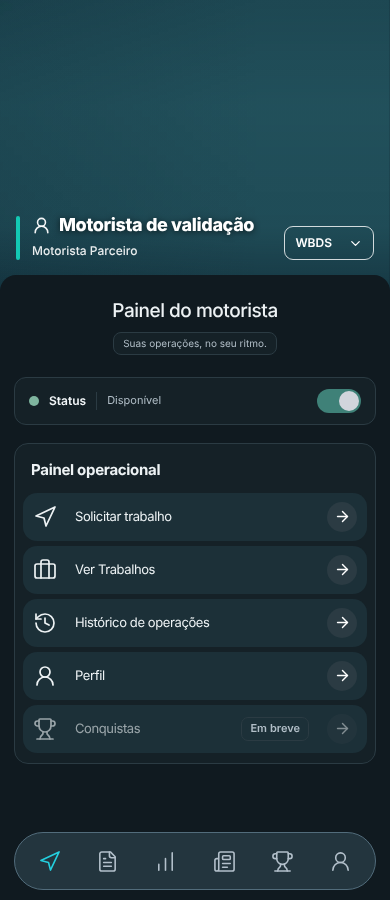
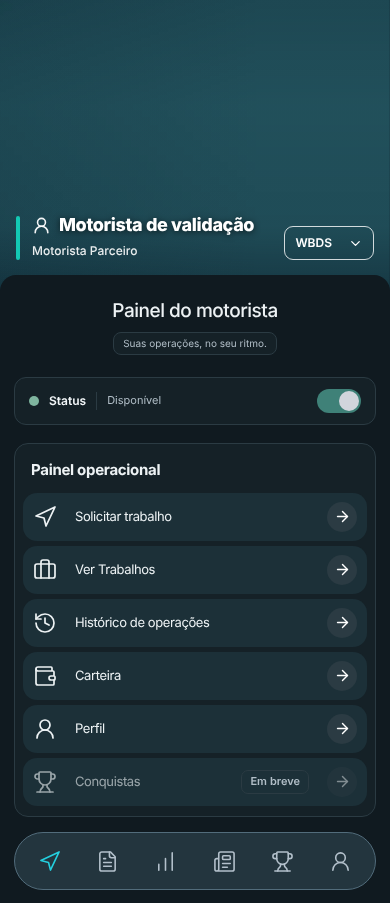
v80: Carteira — opção no Painel operacional, página Trabalhos renomeada para Carteira e removida do menu flutuante — Android 1.0.586, Web 2.3.243, Windows 0.2.12
Claude-Session: https://claude.ai/code/session_01ASk6AVRSjq21hzr82RT83a

diff --git a/src/pages/driver/Rewards.tsx b/src/pages/driver/Rewards.tsx
@@ -14,7 +14,7 @@ import "../../components/partnerships/Partnerships.css";
 
 type Tab = "active" | "receipts" | "history" | "info";
 
-/** Trabalhos do motorista (menu do painel): trabalhos ativos com prazo e ganhos, recebimentos, histórico de conclusões e resultados, e como funciona. */
+/** Carteira do motorista (opção do Painel operacional): trabalhos ativos com prazo e ganhos, recebimentos, histórico de conclusões e resultados, e como funciona. */
 export default function DriverRewards() {
   const { currentUser } = useSessionStore();
   const navigate = useNavigate();
@@ -32,12 +32,12 @@ export default function DriverRewards() {
   if (paymentId) return shell("Recebimento", "Pagamento e comprovante.", <ReceiptDetail payment={payments.find(item => item.id === paymentId)} pix={pix} onBack={() => setPaymentId("")} />);
   if (open) return shell(offerPhase(open) === "pending" ? "Oferta" : "Trabalho", "Prazo, ganhos e pagamento.", <OfferDetail offer={open} now={now} busy={busy} onBack={() => setOpenId("")} onRespond={decision => void respond(open, decision)} />);
   const pending = offers.filter(offer => offerPhase(offer) === "pending" && offer.endMs >= now).length, toConfirm = payments.filter(item => item.status === "paid").length;
-  const tabs = <Tabs<Tab> label="Seções de trabalhos" value={tab} onChange={setTab} items={[{ id: "active", label: "Ativos", count: pending, warn: true }, { id: "receipts", label: "Recebimentos", count: toConfirm, warn: true }, { id: "history", label: "Histórico" }, { id: "info", label: "Info" }]} />;
+  const tabs = <Tabs<Tab> label="Seções da carteira" value={tab} onChange={setTab} items={[{ id: "active", label: "Ativos", count: pending, warn: true }, { id: "receipts", label: "Recebimentos", count: toConfirm, warn: true }, { id: "history", label: "Histórico" }, { id: "info", label: "Info" }]} />;
   const body = tab === "receipts" ? <ReceiptsTab payments={payments} pix={pix} ready={paymentsReady} onOpen={setPaymentId} />
     : tab === "history" ? <HistoryTab offers={offers} payments={payments} ready={ready} onOpen={setOpenId} />
     : tab === "info" ? <InfoTab offers={offers} payments={payments} />
     : <ActiveTab offers={offers} ready={ready} now={now} onOpen={setOpenId} />;
-  return shell("Trabalhos", tab === "receipts" ? "Recebimentos e chave Pix." : tab === "history" ? "Conclusões e resultados." : tab === "info" ? "Como funciona." : "Seus trabalhos e ofertas.", <>
+  return shell("Carteira", tab === "receipts" ? "Recebimentos e chave Pix." : tab === "history" ? "Conclusões e resultados." : tab === "info" ? "Como funciona." : "Seus trabalhos e ofertas.", <>
     <BackLink label="Painel" onClick={() => navigate("/driver/profile")} />
     {tabs}
     {error ? <p className="b2p-alert" role="alert">Não foi possível atualizar agora.</p> : null}

diff --git a/src/components/driver/DriverIdlePanel.tsx b/src/components/driver/DriverIdlePanel.tsx
@@ -17,13 +17,15 @@ type IdleMenuItem = { id: string; label: string; icon: LucideIcon; hint?: string
  * Painel do motorista sem operação: status no topo e uma lista de opções (mesmo desenho da Central de gestão).
  * "Ver Trabalhos" e "Histórico de operações" abrem a própria tela dentro do painel, com botão de voltar.
  */
-export function DriverIdlePanel({ online, suspended, onAvailabilityChange, request, onProfile, workJobIds = [], works, history, defaultView = "menu", children }: {
+export function DriverIdlePanel({ online, suspended, onAvailabilityChange, request, onProfile, onWallet, workJobIds = [], works, history, defaultView = "menu", children }: {
   online: boolean;
   suspended: boolean;
   onAvailabilityChange: (online: boolean) => void;
   /** Estado do pedido de trabalho; a opção "Solicitar trabalho" envia o pedido (com um pedido em andamento, abre "Ver Trabalhos" para acompanhar/cancelar). */
   request: { pending: boolean; busy: boolean; success: boolean; onRequest: () => void };
   onProfile: () => void;
+  /** Abre a página Carteira (ofertas, recebimentos e histórico de ganhos). */
+  onWallet: () => void;
   /** Trabalhos recebidos (ids) — conta quantos têm oferta de pagamento nova. */
   workJobIds?: string[];
   works: React.ReactNode;
@@ -44,6 +46,7 @@ export function DriverIdlePanel({ online, suspended, onAvailabilityChange, reque
       onSelect: () => (request.pending ? setView("works") : request.onRequest()) },
     { id: "works", label: "Ver Trabalhos", icon: Briefcase, badge: worksNew > 0 ? `${worksNew} ${worksNew === 1 ? "nova" : "novas"}` : worksCount || undefined, onSelect: () => setView("works") },
     { id: "history", label: "Histórico de operações", icon: History, onSelect: () => setView("history") },
+    { id: "wallet", label: "Carteira", icon: Wallet, onSelect: onWallet },
     { id: "profile", label: "Perfil", icon: UserRound, onSelect: onProfile },
     { id: "achievements", label: "Conquistas", icon: Trophy, soon: true, disabled: true },
   ];

diff --git a/src/components/driver/DriverRewardsEntry.tsx b/src/components/driver/DriverRewardsEntry.tsx
@@ -5,7 +5,7 @@ import { useSessionStore } from "../../context/AppContext";
 import { useDriverPayments, useDriverRewards } from "../../hooks/useRewards";
 import { formatMoney } from "../../lib/partnerships";
 
-/** Entrada dos Trabalhos no painel do motorista: só aparece quando há oferta nova ou campanha aceita. */
+/** Entrada da Carteira no painel do motorista: só aparece quando há oferta nova ou campanha aceita. */
 export function DriverRewardsEntry() {
   const { currentUser } = useSessionStore();
   const { offers } = useDriverRewards(currentUser?.id), { payments } = useDriverPayments(currentUser?.id), toConfirm = payments.filter(item => item.status === "paid").length;
@@ -14,7 +14,7 @@ export function DriverRewardsEntry() {
   const total = accepted.reduce((sum, offer) => sum + offer.totalCents, 0);
   return <Link to="/driver/recompensas" className="order-2 mb-3 flex items-center gap-3 rounded-2xl border border-[var(--nvu-line)] bg-[var(--nvu-surface,#fff)] px-4 py-3 text-left no-underline" data-testid="driver-rewards-entry">
     <Wallet size={22} aria-hidden="true" />
-    <span className="flex-1 min-w-0"><strong className="block text-[14px]">Trabalhos</strong><small className="block text-[12px] opacity-70">{toConfirm ? `${toConfirm} ${toConfirm === 1 ? "pagamento" : "pagamentos"} para confirmar` : pending ? `${pending} ${pending === 1 ? "oferta nova" : "ofertas novas"} para responder` : `Você já ganhou ${formatMoney(total)}`}</small></span>
+    <span className="flex-1 min-w-0"><strong className="block text-[14px]">Carteira</strong><small className="block text-[12px] opacity-70">{toConfirm ? `${toConfirm} ${toConfirm === 1 ? "pagamento" : "pagamentos"} para confirmar` : pending ? `${pending} ${pending === 1 ? "oferta nova" : "ofertas novas"} para responder` : `Você já ganhou ${formatMoney(total)}`}</small></span>
     <ChevronRight size={18} aria-hidden="true" />
   </Link>;
 }

diff --git a/scripts/fixtures/driver-idle-panel-492.tsx b/scripts/fixtures/driver-idle-panel-492.tsx
@@ -38,7 +38,7 @@ function App() {
         <DriverIdlePanel key={`panel:${generation}`} defaultView={config.view || "menu"} online={config.online !== false} suspended={Boolean(config.suspended)}
           onAvailabilityChange={online => { calls.push({ action: "availability", online }); setConfig((v: any) => ({ ...v, online })); }}
           request={{ pending: Boolean(config.pending), busy: Boolean(config.busy), success: Boolean(config.success), onRequest: () => { calls.push({ action: "request" }); setConfig((v: any) => ({ ...v, pending: true })); } }}
-          onProfile={() => calls.push({ action: "profile" })} workJobIds={config.manual ? [manual.id] : []}
+          onProfile={() => calls.push({ action: "profile" })} onWallet={() => calls.push({ action: "wallet" })} workJobIds={config.manual ? [manual.id] : []}
           works={<>
           <DriverWorkRequest variant="panel" online={config.online !== false} suspended={Boolean(config.suspended)} busy={Boolean(config.busy)}
             pending={Boolean(config.pending)} requestedAt="12:00" success={Boolean(config.success)}

diff --git a/src/components/driver/RewardCompletionPrompt.tsx b/src/components/driver/RewardCompletionPrompt.tsx
@@ -30,7 +30,7 @@ export function RewardCompletionPrompt({ driverId }: { driverId: string | undefi
   const lost = target.expired;
   return createPortal(<div className="nvu-pss-backdrop" role="presentation" onClick={() => !busy && close()}>
     <section className="nvu-pss" role="dialog" aria-modal="true" aria-labelledby="nvu-rcp-title" onClick={event => event.stopPropagation()} data-testid="reward-completion-prompt">
-      <header><span className="nvu-pss-badge"><Wallet size={14} aria-hidden="true" /> Trabalhos</span><button type="button" aria-label="Fechar" disabled={busy} onClick={close}><X size={18} aria-hidden="true" /></button></header>
+      <header><span className="nvu-pss-badge"><Wallet size={14} aria-hidden="true" /> Carteira</span><button type="button" aria-label="Fechar" disabled={busy} onClick={close}><X size={18} aria-hidden="true" /></button></header>
       <h2 id="nvu-rcp-title">{lost ? "Prazo encerrado" : "Operação concluída"}</h2>
       <p className="nvu-pss-partner">{target.contractName || target.name} · {target.companyName}</p>
       {lost

diff --git a/src/pages/driver/Dashboard.tsx b/src/pages/driver/Dashboard.tsx
@@ -730,7 +730,7 @@ function DashboardComponent({
     { id: "/driver/profile", label: "Meu Perfil", icon: UserIcon },
     { id: "/driver/history", label: "Histórico de Viagens", icon: History },
     { id: "/driver/reports", label: "Relatórios", icon: Activity },
-    { id: "/driver/recompensas", label: "Trabalhos", icon: Wallet },
+    { id: "/driver/recompensas", label: "Carteira", icon: Wallet },
   ];
 
   const activePageDetails =
@@ -1004,7 +1004,7 @@ function DashboardComponent({
         online={Boolean(currentUser?.isOnline)} suspended={operationalSuspension.active}
         onAvailabilityChange={updateUserOnlineStatus}
         request={{ pending: Boolean(myDemand), busy: isSubmittingDemand, success: demandSuccess, onRequest: () => void handleRequestDemand() }}
-        onProfile={() => navigate("/driver/profile")}
+        onProfile={() => navigate("/driver/profile")} onWallet={() => navigate("/driver/recompensas")}
         workJobIds={pendingDriverJobs.map(job => job.id)}
         works={<>
           {solicitarTrabalhoCard}

diff --git a/src/pages/driver/RewardOfferDetail.tsx b/src/pages/driver/RewardOfferDetail.tsx
@@ -12,7 +12,7 @@ export function OfferDetail({ offer, now, busy, onBack, onRespond }: { offer: Re
   const sim = Number(offer.simCents) || 0, phase = offerPhase(offer), accepted = offer.status === "accepted", goal = goalOf(offer), days = offer.deadlineDays, left = timeLeftText(offer.deadlineMs, now);
   const payDay = offer.payDay === null ? "" : ` (toda ${WEEKDAYS[offer.payDay].toLowerCase()})`;
   return <>
-    <BackLink label="Trabalhos" onClick={onBack} />
+    <BackLink label="Carteira" onClick={onBack} />
     <section className="nvu-central-section b2p-sec"><div className="b2p-form">
       <div className="b2p-op-row"><span className="nvu-central-avatar b2p-logo" style={{ display: "inline-grid", placeItems: "center", width: 44, height: 44 }}><Trophy size={22} aria-hidden="true" /></span><div><b>{offer.name}</b><small>{offer.companyName} · {termText(offer)}</small></div></div>
       <div className="b2p-settle">

diff --git a/src/components/workspaceMenuItems.ts b/src/components/workspaceMenuItems.ts
@@ -1,4 +1,4 @@
-import { BookOpen, LayoutDashboard, Truck, Wallet } from "lucide-react";
+import { BookOpen, LayoutDashboard, Truck } from "lucide-react";
 import type { GlobalMenuGroup, GlobalMenuItem } from "./GlobalMenu";
 
 // Routes also present in WorkspaceDock remain available through the dock.
@@ -9,6 +9,5 @@ export const COMPANY_MENU_GROUPS: GlobalMenuGroup[] = [{ title: "", items: [
 
 export const DRIVER_MENU_ITEMS: GlobalMenuItem[] = [
   { label: "Painel Operacional", icon: LayoutDashboard, path: "/driver", exact: true },
-  { label: "Trabalhos", icon: Wallet, path: "/driver/recompensas" },
   { label: "Manual", icon: BookOpen, path: "/driver/manual" },
 ];

diff --git a/capacitor.config.ts b/capacitor.config.ts
@@ -15,7 +15,7 @@ const selfHostedOtaEnabled =
   && Boolean(selfHostedOtaManifestUrl)
   && Boolean(selfHostedOtaPublicKey);
 const nativeChannel = String(
-  process.env.NVU_NATIVE_CHANNEL || "production-585",
+  process.env.NVU_NATIVE_CHANNEL || "production-586",
 ).trim();
 
 /**

diff --git a/LEIA-ME-1.0.586.md b/LEIA-ME-1.0.586.md
@@ -1,6 +1,12 @@
-# NVU PRO 1.0.585 (Android) / Web 2.3.242 / Windows 0.2.11
+# NVU PRO 1.0.586 (Android) / Web 2.3.243 / Windows 0.2.12
 
-Base atual do projeto (branch `dist-build`). **Uma única base**: Web (`src/`), Android (`android/`, `versionCode` 585 — instala como atualização da 584/583/582/581/580/579/578/577/576/575/574/573/572/571/570/569/568/567/566/565/564/563/562/561/560/559/558/557/556/555/554/553/552/551/550, sem limpar dados), Windows (`desktop/windows/`, 0.2.9, carrega o mesmo web) e servidor (`functions/`, `firestore.rules`, `storage.rules`).
+Base atual do projeto (branch `dist-build`). **Uma única base**: Web (`src/`), Android (`android/`, `versionCode` 586 — instala como atualização da 585/584/583/582/581/580/579/578/577/576/575/574/573/572/571/570/569/568/567/566/565/564/563/562/561/560/559/558/557/556/555/554/553/552/551/550, sem limpar dados), Windows (`desktop/windows/`, 0.2.9, carrega o mesmo web) e servidor (`functions/`, `firestore.rules`, `storage.rules`).
+
+## 1.0.586 — Carteira
+- **Nova opção “Carteira” no Painel operacional** (entre “Histórico de operações” e “Perfil”): abre a página que antes se chamava “Trabalhos” (ofertas, recebimentos, histórico de ganhos e informações).
+- **A página passou a se chamar “Carteira”** (título, link de voltar nos detalhes da oferta, janela de conclusão/Pix e atalho do painel). O botão “Trabalhos” **saiu do menu flutuante** do motorista.
+- “Ver Trabalhos” (fila de trabalhos recebidos) continua como estava.
+- Sem mudança no servidor (nada a publicar).
 
 ## 1.0.585 — Painel do motorista: lista de opções
 - **Sem o card “Empresa vinculada”.** O painel mostra o **Status** e, logo abaixo, uma **lista de opções no mesmo desenho da Central de gestão**: **1. Solicitar trabalho** (envia o pedido; com pedido em andamento abre “Ver Trabalhos” para acompanhar/cancelar), **2. Ver Trabalhos**, **3. Histórico de operações**, **4. Perfil** (abre a página de perfil) e **5. Conquistas** (“Em breve”).

diff --git a/desktop/windows/README.md b/desktop/windows/README.md
@@ -1,4 +1,4 @@
-# NVU PRO Windows 0.2.11
+# NVU PRO Windows 0.2.12
 
 Aplicativo Windows (Electron) e plugin de telemetria SCS (ETS2/ATS) do mesmo projeto Web/Android. Este documento é técnico; o guia para o usuário final é `GUIA-ATUALIZAR-NVU-E-PREPARAR-ETS2-ATS.md`.
 
@@ -8,7 +8,7 @@ Aplicativo Windows (Electron) e plugin de telemetria SCS (ETS2/ATS) do mesmo pro
 
 | Arquivo | Para quem |
 |---|---|
-| `NVU-PRO-Setup-0.2.11-x64.exe` | **Principal.** Instala ou atualiza a NVU (por usuário, sem administrador). |
+| `NVU-PRO-Setup-0.2.12-x64.exe` | **Principal.** Instala ou atualiza a NVU (por usuário, sem administrador). |
 | `release-manifest.json`, `SHA256SUMS.txt`, `Verificar-NVU.ps1` | Conferência do arquivo baixado (tamanho, SHA-256, assinatura). |
 | `nvu_scs_telemetry.dll` + `.manifest.json` e `plugin/` (fonte) | Opcional/técnico: plugin e fonte do plugin. |
 | Projeto completo (ZIP) e relatório | Opcional/técnico. |
@@ -29,7 +29,7 @@ npm run windows:verify                # reverifica artifacts/windows (tamanho, S
 npm run windows:portable              # secundário: ZIP sem instalação
 npm run windows:dev                   # abre o aplicativo a partir do código
 npm run test:role-matrix              # matriz por papel (emulador, dados fictícios)
-bash desktop/windows/tests/e2e/wine-installer-check.sh artifacts/windows/NVU-PRO-Setup-0.2.11-x64.exe ~/wine-nvu   # emulado (Wine), prefixo descartável
+bash desktop/windows/tests/e2e/wine-installer-check.sh artifacts/windows/NVU-PRO-Setup-0.2.12-x64.exe ~/wine-nvu   # emulado (Wine), prefixo descartável
 ```
 
 A versão do aplicativo e do plugin vem de **uma única fonte**: `desktop/windows/package.json` (`version` e `nvu.pluginVersion`). O build do plugin grava a versão na DLL e gera `nvu_scs_telemetry.manifest.json` (SHA-256/tamanho); o aplicativo confere a DLL empacotada com esse manifesto ao iniciar.
